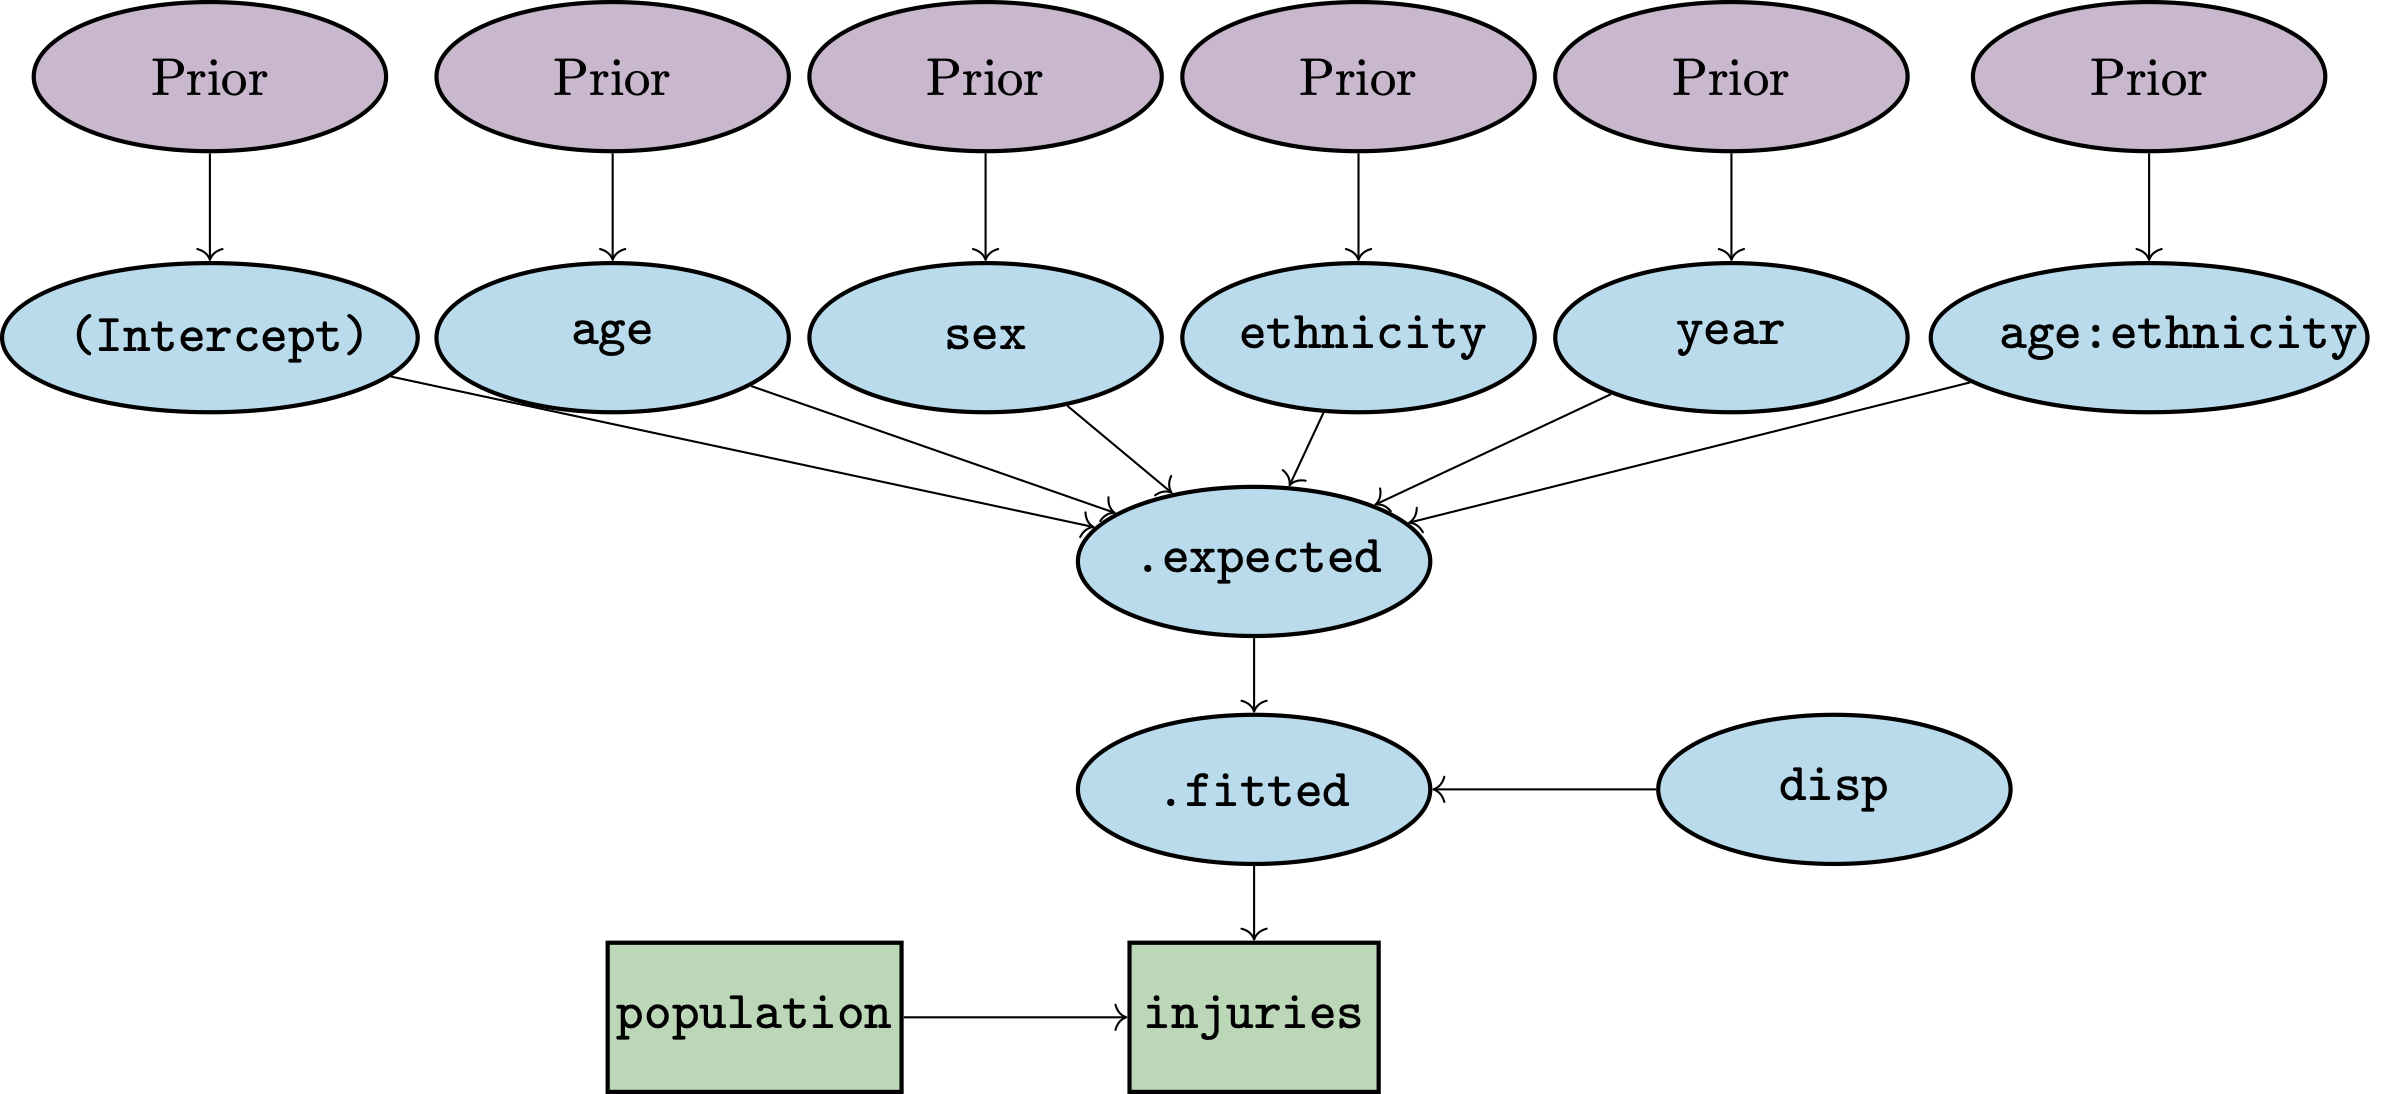
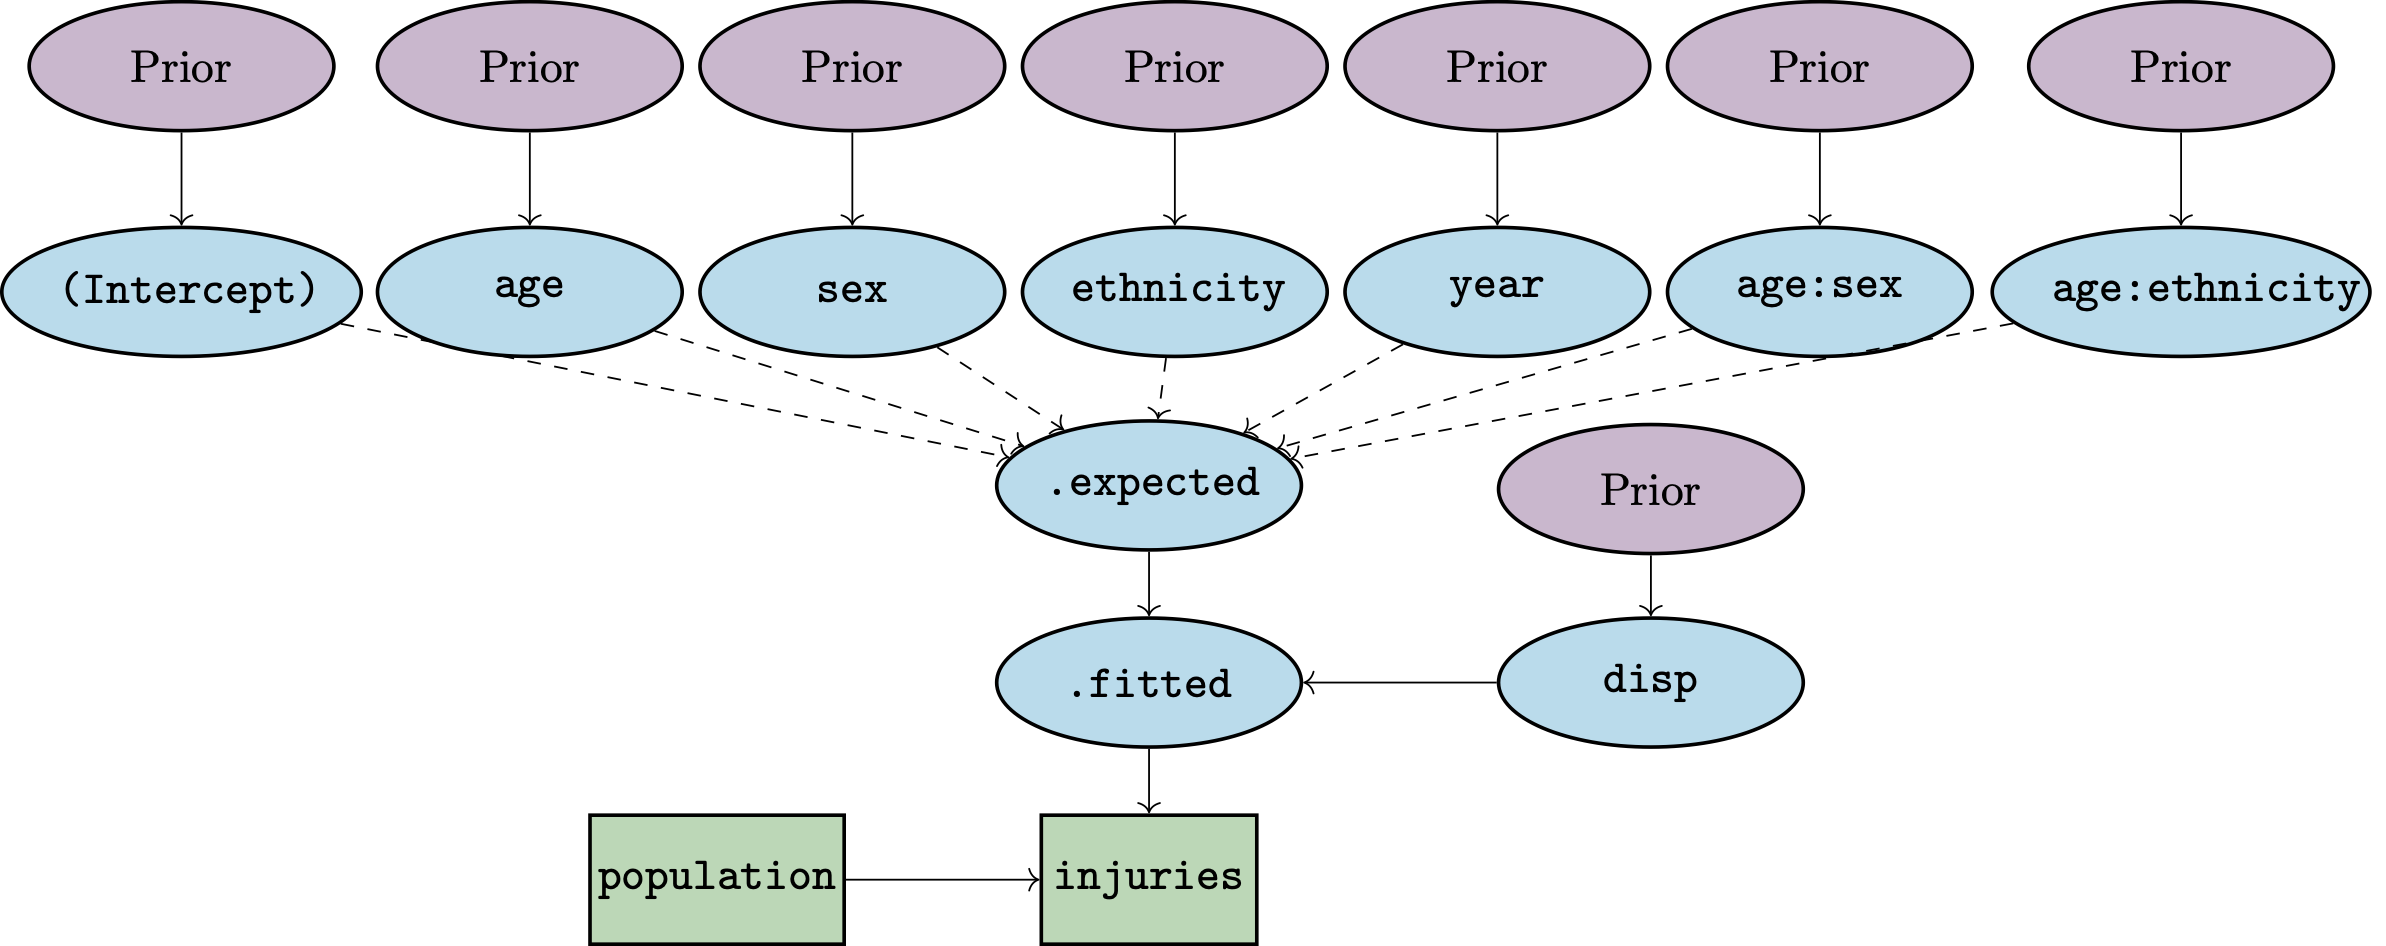
working on vig1

diff --git a/vignettes/vig1_dag.tex b/vignettes/vig1_dag.tex
@@ -39,18 +39,20 @@
       \node[unobs][right = of gamma] (disp) {\texttt{disp}}
     edge[->](gamma);
 
-    \node[unobs, text width = 1.9cm] [above of = mu, xshift = -7cm, yshift = 0cm] (beta_int) {\texttt{(Intercept)}}
-      edge[->](mu);
+    \node[unobs, text width = 1.9cm] [above of = mu, xshift = -7.5cm, yshift = 0cm] (beta_int) {\texttt{(Intercept)}}
+      edge[->,dashed](mu);
     \node[unobs] [right of = beta_int, xshift = 1.2cm] (beta_age) {\texttt{age}}
-      edge[->](mu);
+      edge[->,dashed](mu);
     \node[unobs] [right of = beta_age, xshift = 1cm] (beta_sex) {\texttt{sex}}
-      edge[->](mu);
+      edge[->,dashed](mu);
     \node[unobs] [right of = beta_sex, xshift = 1cm] (beta_eth) {\texttt{ethnicity}}
-      edge[->](mu);
+      edge[->,dashed](mu);
     \node[unobs] [right of = beta_eth, xshift = 1cm] (beta_year) {\texttt{year}}
-      edge[->](mu);
-    \node[unobs, text width = 2cm] [right of = beta_year, xshift = 1.3cm] (beta_ageeth) {\texttt{age:ethnicity}}
-      edge[->](mu);
+      edge[->,dashed](mu);
+    \node[unobs] [right of = beta_year, xshift = 1cm] (beta_agesex) {\texttt{age:sex}}
+      edge[->,dashed](mu);
+    \node[unobs, text width = 2cm] [right of = beta_agesex, xshift = 1.3cm] (beta_ageeth) {\texttt{age:ethnicity}}
+      edge[->,dashed](mu);
 
     \node[prior] [above of = beta_int, yshift = 0.25cm] (pi_int) {Prior}
       edge[->](beta_int);
@@ -62,8 +64,13 @@
       edge[->](beta_eth);
     \node[prior] [above of = beta_year, yshift = 0.25cm] (pi_year) {Prior}
       edge[->](beta_year);
-    \node[prior] [above of = beta_ageeth, yshift = 0.25cm] (pi_year) {Prior}
+    \node[prior] [above of = beta_agesex, yshift = 0.25cm] (pi_agesex) {Prior}
+      edge[->](beta_agesex);
+    \node[prior] [above of = beta_ageeth, yshift = 0.25cm] (pi_ageeth) {Prior}
       edge[->](beta_ageeth);
+
+    \node[prior] [above of = disp, yshift = 0cm] (pi_disp) {Prior}
+      edge[->](disp);
 
   \end{tikzpicture}
   }
